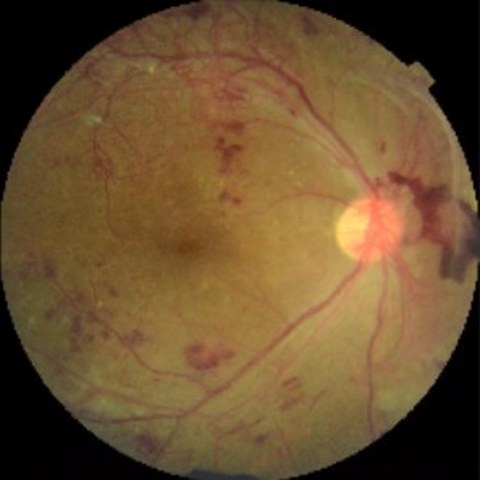
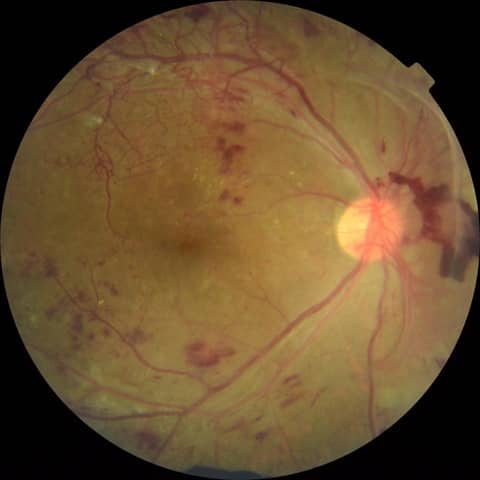
Update dataset sample images in results section
- 5 fundus photos from the EyePACS / Kaggle "Diabetic Retinopathy
  Detection" competition dataset (2015)
  - resized and compressed to 480x480 for web use
  - Regenerated from original dataset's source files
    - Previous version was cropped from ipynb outputs
- Used here as a small (5 of 35,126+ training images), resized,
  non-commercial academic/educational sample
  — not a redistribution of the dataset itself

Citation:
- Data provided by EyePACS; competition created by Emma Dugas and Jared
  and Jorge and Will Cukierski; sponsored by the California Healthcare
  Foundation; hosted on Kaggle
- Source: kaggle.com/competitions/diabetic-retinopathy-detection

diff --git a/index.html b/index.html
@@ -480,7 +480,7 @@
         <img src="images/results/grade1.jpg" alt="Fundus photo, grade 1 (Mild)">
         <div class="result-dialog-body">
           <h3 id="dlg-1-title">Grade 1 — Mild</h3>
-          <p class="result-file">EyePACS id: 5249_left</p>
+          <p class="result-file">EyePACS id: 5137_left</p>
           <ul class="rb-list">
             <li class="rb-row">
               <span class="rb-label">No DR</span>
@@ -518,7 +518,7 @@
         <img src="images/results/grade2.jpg" alt="Fundus photo, grade 2 (Moderate)">
         <div class="result-dialog-body">
           <h3 id="dlg-2-title">Grade 2 — Moderate</h3>
-          <p class="result-file">EyePACS id: 5848_left</p>
+          <p class="result-file">EyePACS id: 5800_left</p>
           <ul class="rb-list">
             <li class="rb-row">
               <span class="rb-label">No DR</span>
